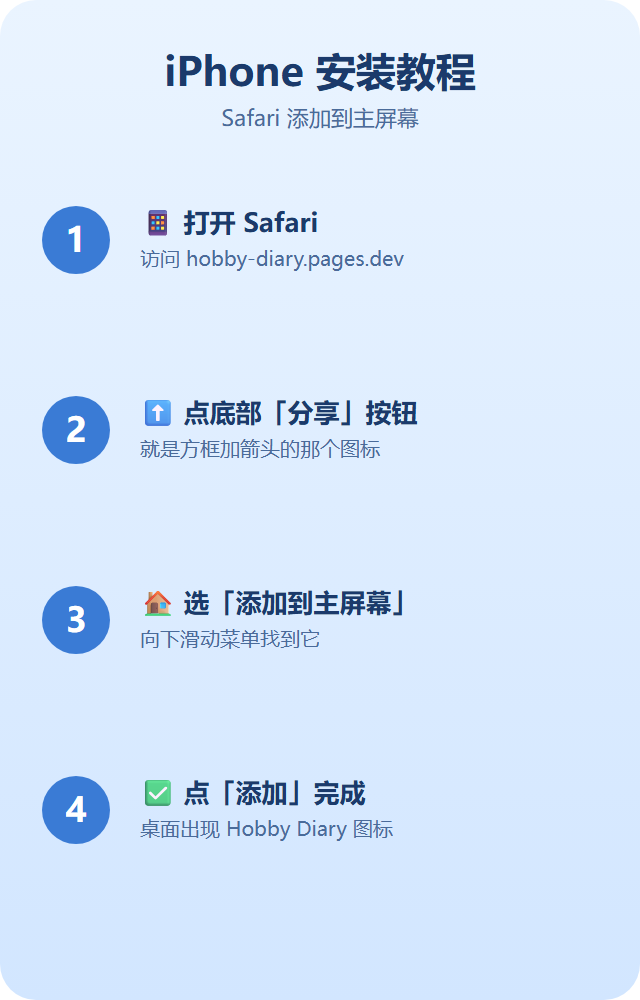
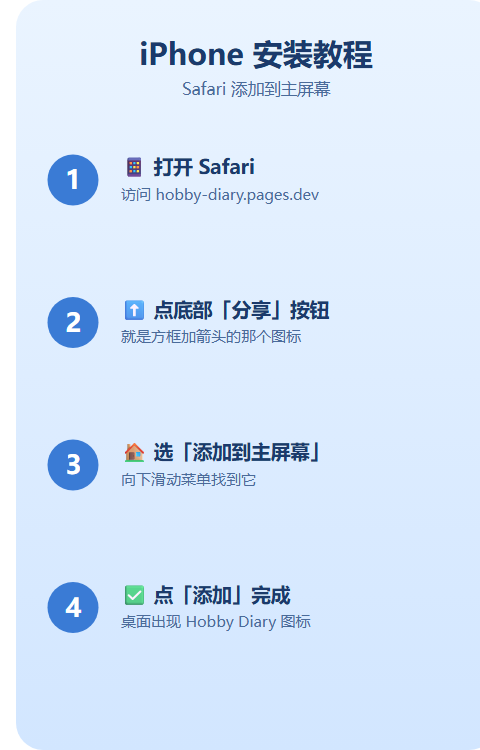
docs：缩小 README 安装教程图片
教程图重渲染为 480x750 并在 README 中限制显示宽度 340px

diff --git a/README.md b/README.md
@@ -53,7 +53,7 @@ node serve.js
 3. 向下滑动菜单，点「添加到主屏幕」
 4. 点右上角「添加」，桌面就会出现 Hobby Diary 图标
 
-![iPhone 安装教程](assets/ios-install.png)
+<img src="assets/ios-install.png" alt="iPhone 安装教程" width="340">
 
 ### 安卓（Chrome）
 
@@ -62,7 +62,7 @@ node serve.js
 3. 点「安装应用」（或「添加到主屏幕」）
 4. 点「安装」，桌面就会出现 Hobby Diary 图标
 
-![安卓安装教程](assets/android-install.png)
+<img src="assets/android-install.png" alt="安卓安装教程" width="340">
 
 ## 数据说明
 
